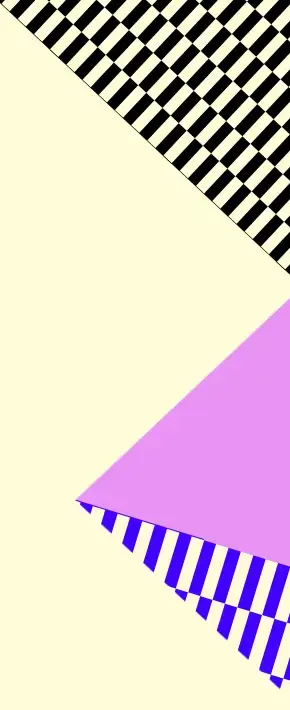
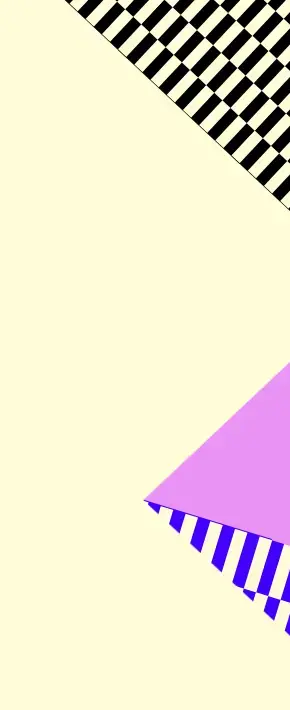
style: heading responsivity

Changed region(s): [[0.0, 0.0, 1.0, 0.9915]]

diff --git a/src/components/svg/MajalesHeadlineDate.tsx b/src/components/svg/MajalesHeadlineDate.tsx
@@ -1,6 +1,13 @@
 export const MajalesHeadlineDate = () => {
   return (
-    <svg width="324" height="64" viewBox="0 0 324 64" fill="none" xmlns="http://www.w3.org/2000/svg">
+    <svg
+      className="w-[200px] lg:w-[324px]"
+      width="324"
+      height="64"
+      viewBox="0 0 324 64"
+      fill="none"
+      xmlns="http://www.w3.org/2000/svg"
+    >
       <g clipPath="url(#clip0_360_15269)">
         <path
           d="M9.42353 43.0235V45.6924C9.42353 48.417 10.2853 50.6412 11.9949 52.3649C13.7044 54.0886 15.9005 54.9366 18.5691 54.9366C21.2377 54.9366 23.4337 54.0747 25.1433 52.3649C26.8529 50.6551 27.7146 48.417 27.7146 45.6924C27.7146 42.9679 26.8529 40.8271 25.1433 39.1173C23.4337 37.4075 21.2377 36.5456 18.5691 36.5456H10.9246V27.4822H18.5691C21.2377 27.4822 23.4337 26.6203 25.1433 24.8966C26.8668 23.1729 27.7146 20.9626 27.7146 18.2381C27.7146 15.5135 26.8529 13.3727 25.1433 11.6629C23.4337 9.95308 21.2377 9.07732 18.5691 9.07732C15.9005 9.07732 13.7044 9.93918 11.9949 11.6629C10.2853 13.3866 9.42353 15.5691 9.42353 18.2381V20.9904H0V18.2381C0 12.9001 1.73738 8.53519 5.19823 5.12945C8.65909 1.72372 13.1207 0 18.583 0C24.0453 0 28.4235 1.69592 31.9121 5.07385C35.4147 8.45178 37.1521 12.6638 37.1521 17.6959C37.1521 24.0348 34.6919 28.8028 29.7717 32.0139C34.6919 35.3362 37.1521 40.1043 37.1521 46.318C37.1521 51.3501 35.4008 55.5621 31.9121 58.9401C28.4096 62.318 23.9758 64.0139 18.583 64.0139C13.1902 64.0139 8.67299 62.2902 5.21213 58.8566C1.75128 55.4231 0.013899 51.0304 0.013899 45.7063V43.0374H9.43743L9.42353 43.0235Z"

diff --git a/src/components/shared/MajalesHeadlineDateLanding.tsx b/src/components/shared/MajalesHeadlineDateLanding.tsx
@@ -6,7 +6,7 @@ export const MajalesHeadlineDateLanding = () => {
   return (
     <SectionContainer
       id="majales-headline"
-      className="bg-[url('/assets/img/majales-heading-left-mob.webp'),_url('/assets/img/majales-heading-right-mob.webp')] bg-[position:left,_right] lg:bg-[url('/assets/img/majales-heading-left.webp'),_url('/assets/img/majales-heading-right.webp')]"
+      className="bg-[url('/assets/img/majales-heading-mob-left.webp'),_url('/assets/img/majales-heading-mob-right.webp')] bg-[position:left,_right] lg:bg-[url('/assets/img/majales-heading-left.webp'),_url('/assets/img/majales-heading-right.webp')]"
     >
       <div className="flex flex-wrap justify-center items-center gap-8 lg:gap-16 py-16">
         <MajalesHeadline width={410} />

diff --git a/src/components/ubc/AboutSection.tsx b/src/components/ubc/AboutSection.tsx
@@ -25,7 +25,7 @@ export const AboutSection = () => {
         alt="UBC kapela"
         width={800}
         height={400}
-        className="2xl:absolute static right-6 2xl:-bottom-[20%] 2xl:translate-y-[20%] max-w-[600px] z-10 mt-8"
+        className="2xl:absolute static right-6 2xl:-bottom-[20%] 2xl:translate-y-[20%] w-full max-w-[600px] z-10 mt-8"
       />
     </SectionContainer>
   );
